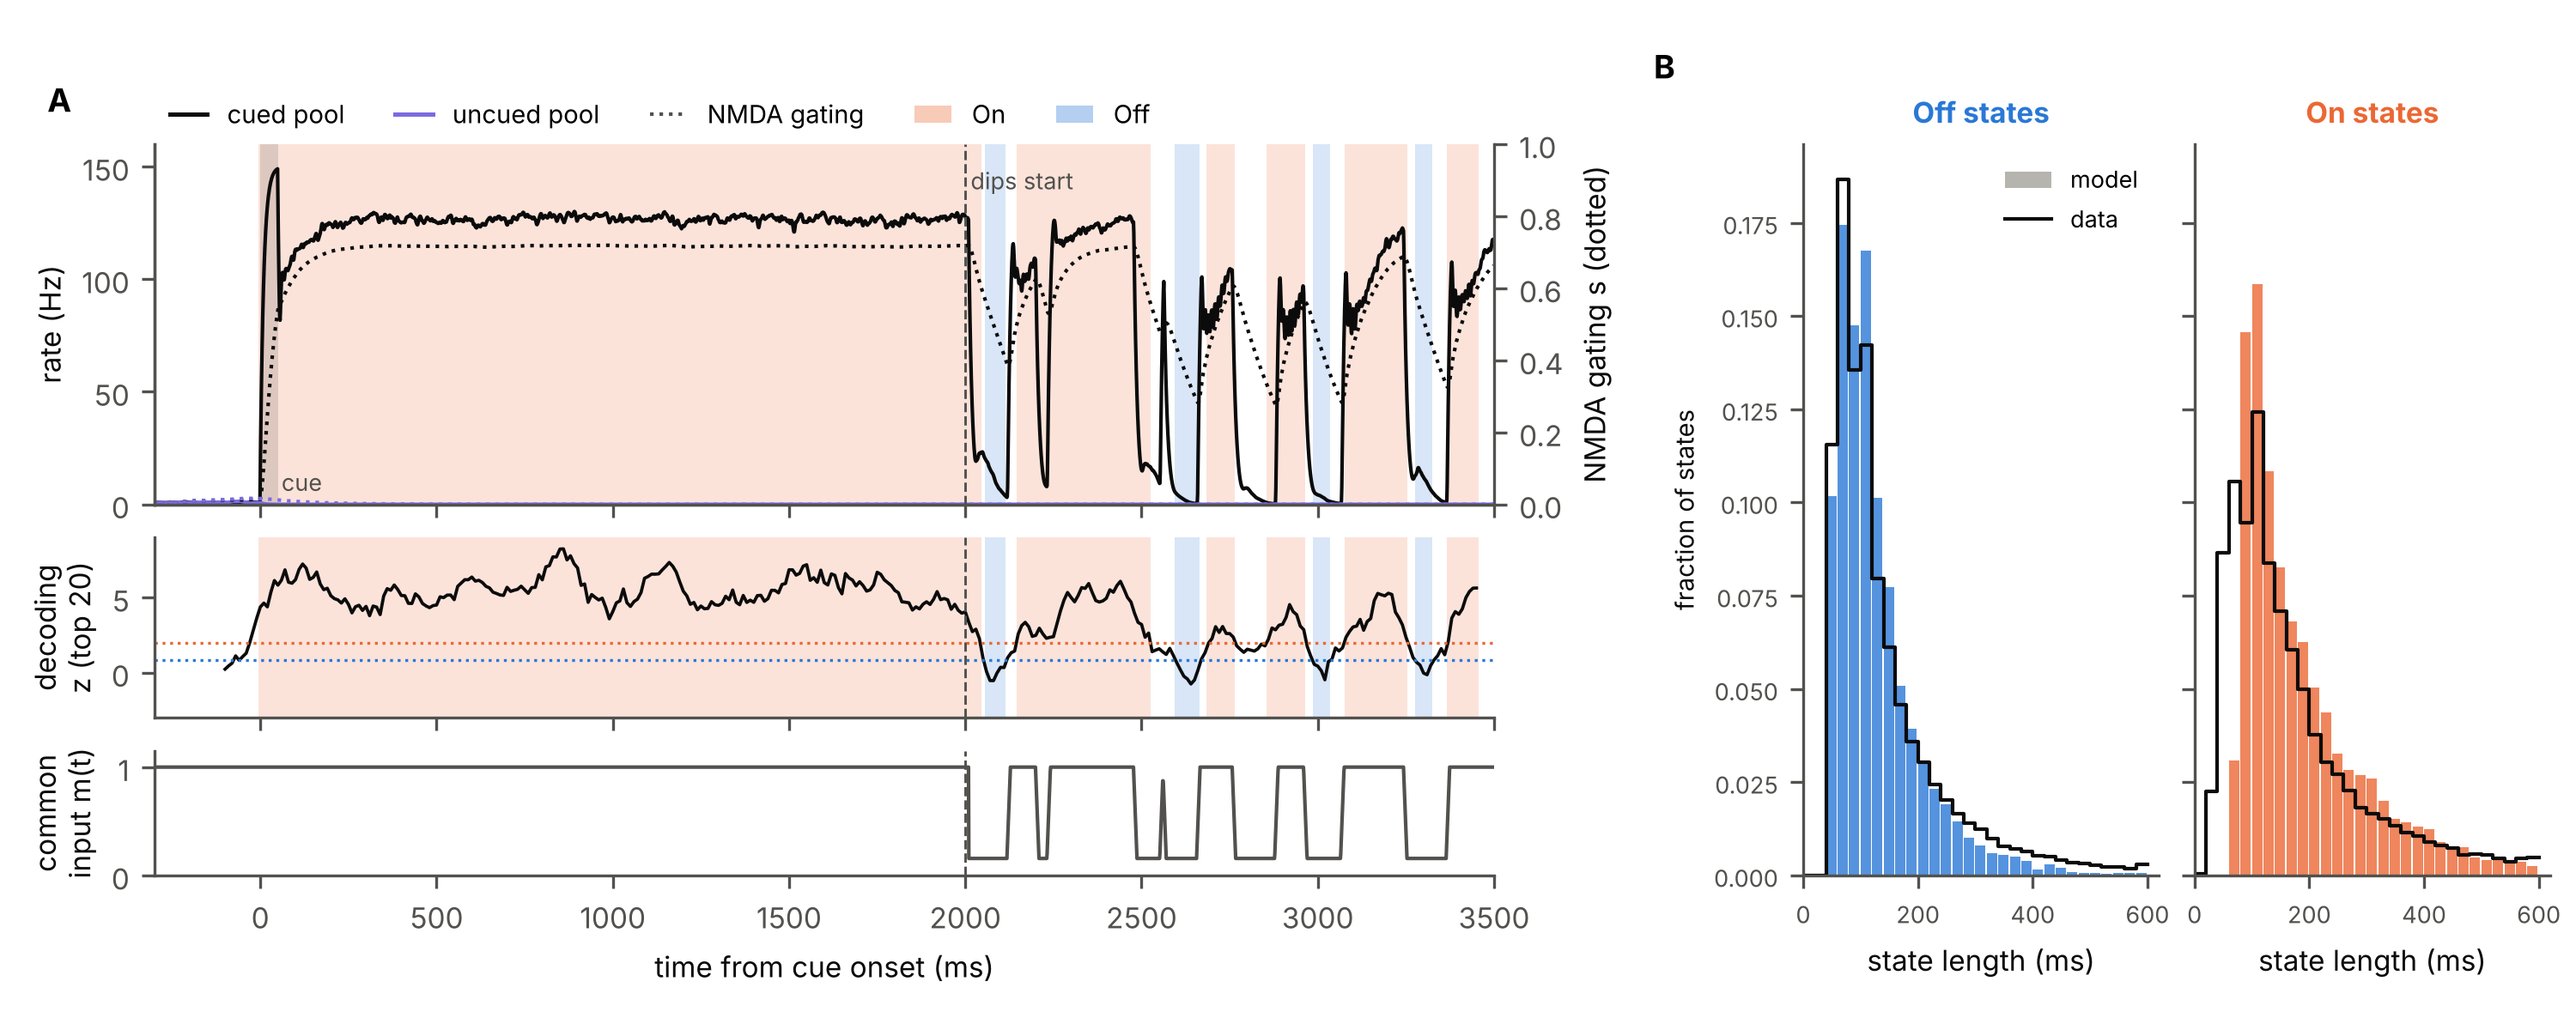
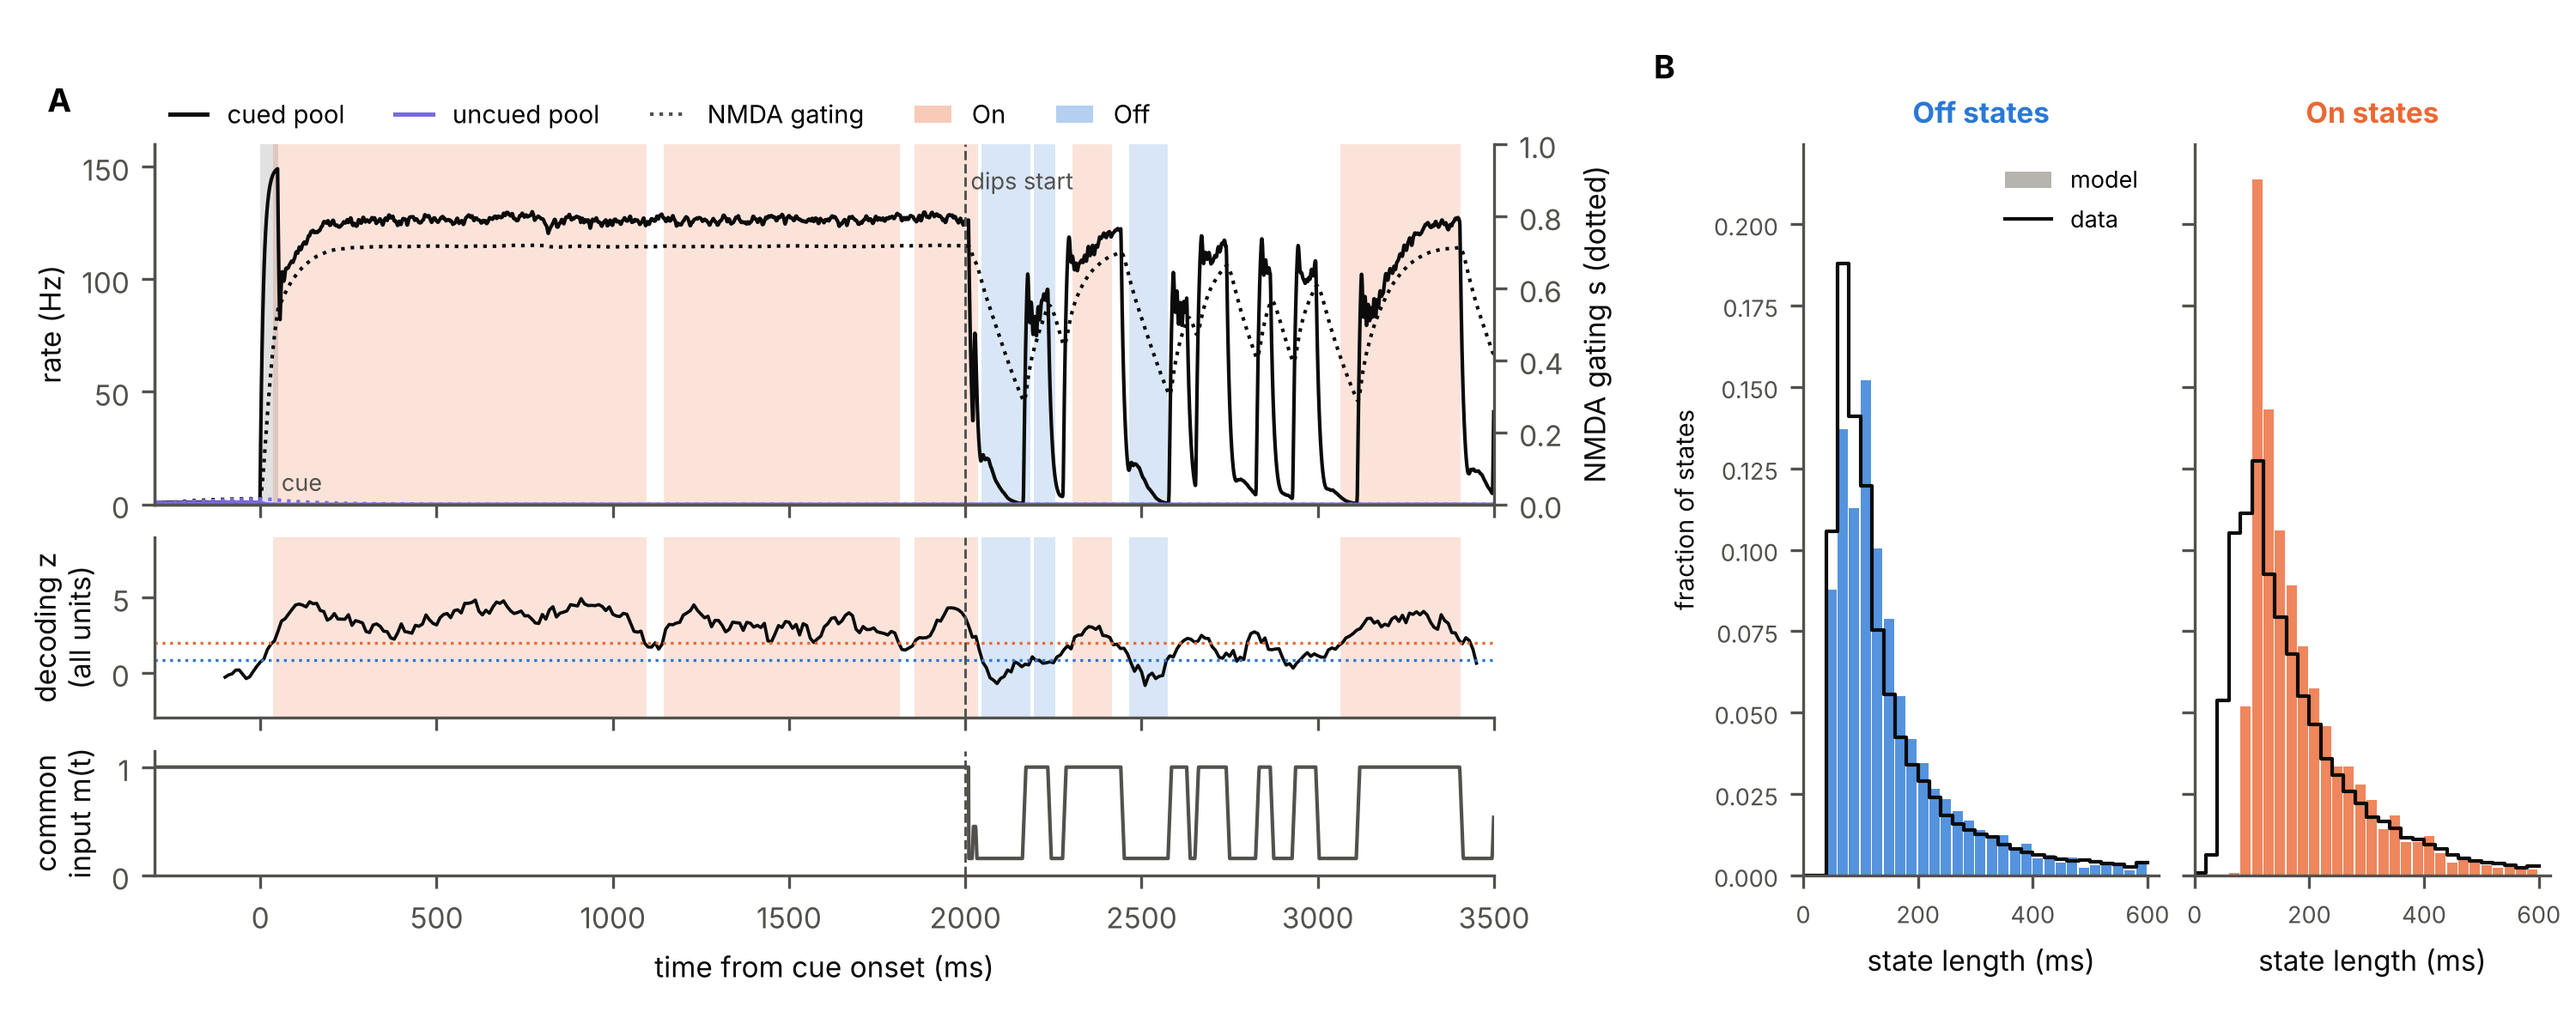
Figure 1: use the all-unit read-out for the decoding trace and histograms
Claude-Session: https://claude.ai/code/session_01DWA8oLxpZgubPZ4A6kb3Lh

diff --git a/paper_model/make_figures.py b/paper_model/make_figures.py
@@ -1,7 +1,7 @@
 """Paper figures of the best-fit model.
 
 Figure 1: A, an example trial: 2 s of delay with a constant common input, then dips switched on (pool rates
-          and NMDA gating, top-20 decoding z, with On/Off labels; common input below). B, right of A: the fitted model's top-20 Off and On
+          and NMDA gating, decoding z from all units, with On/Off labels; common input below). B, right of A: all-unit Off and On
           length histograms (counts, states 0-1,400 ms after cue onset, as in the fit).
 Figure 2: On/Off statistics of every unit set, model vs data.
 
@@ -26,12 +26,13 @@ plt.rcParams.update({'figure.facecolor': 'white', 'axes.facecolor': 'white', 'sa
                      'legend.frameon': False, 'xtick.color': INK2, 'ytick.color': INK2, 'axes.labelcolor': INK})
 
 
+FIG1_SET = ('all', 'session count')   # unit set whose read-out Figure 1 shows
 QUIET, DIPS = 2000, 1500      # example trial: delay without dips (ms after cue onset), then with dips
 
 
 def example_trials(gain, n=300, seed=11):
     """Long trials: a delay of QUIET ms with a constant common input, then DIPS ms with dips. Returns the
-    simulation, read-out z (top-20 gain and noise) and On/Off labels over the whole delay."""
+    simulation, read-out z (gain and noise of FIG1_SET) and On/Off labels over the whole delay."""
     p = M.params(t_delay=QUIET + DIPS - M.FIXED['cue_dur'])
     rng = np.random.default_rng(seed)
     dt = p['dt']
@@ -42,8 +43,8 @@ def example_trials(gain, n=300, seed=11):
     m[:, i0:i0 + int(10 / dt)] = 1.0          # no dip already running at the switch
     sim = M.simulate(p, np.zeros(n, int), seed=seed + 1, m=m)
     dw, tz = R.rate_diff(sim)
-    z = gain * dw + R.noise(dw.shape, R.RHO['top'], rng)
-    thr = R.null_threshold(dw.shape, R.RHO['top'], rng)
+    z = gain * dw + R.noise(dw.shape, R.RHO[FIG1_SET[0]], rng)
+    thr = R.null_threshold(dw.shape, R.RHO[FIG1_SET[0]], rng)
     return sim, tz, z, R.label(z, tz >= 0, thr)
 
 
@@ -68,7 +69,7 @@ def pick_trial(sim, tz, state):
 
 
 def figure1(out, path):
-    r = out['sets'][('top', '20')]
+    r = out['sets'][FIG1_SET]
     sim, tz, z, state = example_trials(r['gain'])
     k = pick_trial(sim, tz, state)
     t = np.arange(sim['rA'].shape[1]) - sim['t_cue']
@@ -101,7 +102,7 @@ def figure1(out, path):
             d.axvspan(tz[i0] - R.STEP / 2, tz[i1 - 1] + R.STEP / 2, color=c, alpha=0.18, lw=0)
     d.plot(tz, z[k], color=INK, lw=0.9)
     d.axhline(1.96, color=C_ON, ls=':', lw=0.8); d.axhline(0.84, color=C_OFF, ls=':', lw=0.8)
-    d.set_ylim(-3, 9); d.set_ylabel('decoding\nz (top 20)'); d.tick_params(labelbottom=False)
+    d.set_ylim(-3, 9); d.set_ylabel('decoding z\n(all units)'); d.tick_params(labelbottom=False)
     b = fig.add_subplot(gs[2], sharex=a)
     b.plot(t, sim['m'][k], color=INK2, lw=1.0)
     b.set_ylim(0, 1.15); b.set_yticks([0, 1]); b.set_ylabel('common\ninput m(t)')
@@ -109,14 +110,14 @@ def figure1(out, path):
     for ax_ in (a, d, b):
         ax_.axvline(QUIET, color=INK2, ls='--', lw=0.7)
     a.text(QUIET + 15, 150, 'dips start', fontsize=6.5, color=INK2, va='top')
-    # top-20 state lengths (states 0-1,400 ms after cue onset), model vs data, as fractions of all states
+    # all-unit state lengths (states 0-1,400 ms after cue onset), model vs data, as fractions of all states
     edges = np.arange(0, 620, 20)
     hs = []
     for j, (lab, c, name) in enumerate(((-1, C_OFF, 'Off'), (1, C_ON, 'On'))):
         h = fig.add_subplot(gh[0, j], sharey=hs[0] if hs else None)
         dur = [(e - b0) * R.STEP for row in r['state'] for b0, e in R.runs(row == lab)]
         h.bar(edges[:-1], np.histogram(dur, edges)[0] / len(dur), width=18, align='edge', color=c, alpha=0.8, lw=0)
-        dc, n = R.data_counts(('top', '20'), name.lower())
+        dc, n = R.data_counts(FIG1_SET, name.lower())
         h.step(edges, np.r_[dc, dc[-1]] / n, where='post', color=INK, lw=1.0)
         h.set_xlim(0, 620); h.set_xticks([0, 200, 400, 600])
         h.set_title(f'{name} states', fontsize=8, color=c, loc='center')

diff --git a/paper_model/README.md b/paper_model/README.md
@@ -10,7 +10,7 @@ when the input returns, and the pool with more residual NMDA wins. The model is 
 | `model.py` | equations, fixed parameters (`FIXED`), best fit (`FIT`), fit bounds, simulation, memory check |
 | `readout.py` | z = gain × (cued − uncued rate, 100 ms windows) + measured noise; gain anchored to the data's μ_on per unit set; On/Off labelling; statistics per unit set |
 | `fit.py` | CMA-ES fit of `FIT` (loss: six On/Off statistics and the On/Off length histograms of each of 7 unit sets, memory ≥ 98% on the fit's trials) |
-| `make_figures.py` | Figure 1 (example trial: 2 s delay without dips, then dips; model top-20 length histograms) and Figure 2 (On/Off statistics of every unit set, model vs data), `model_stats.json` |
+| `make_figures.py` | Figure 1 (example trial: 2 s delay without dips, then dips; all-unit decoding and length histograms, model vs data) and Figure 2 (On/Off statistics of every unit set, model vs data), `model_stats.json` |
 | `data/` | data read-out table and histograms (λ = 10,000), with the data agent's note |
 
 Fitted (to the On/Off statistics and length histograms of all 7 unit sets): τ_N 132 ms, w_s 1.61, dips 10.2/s,
